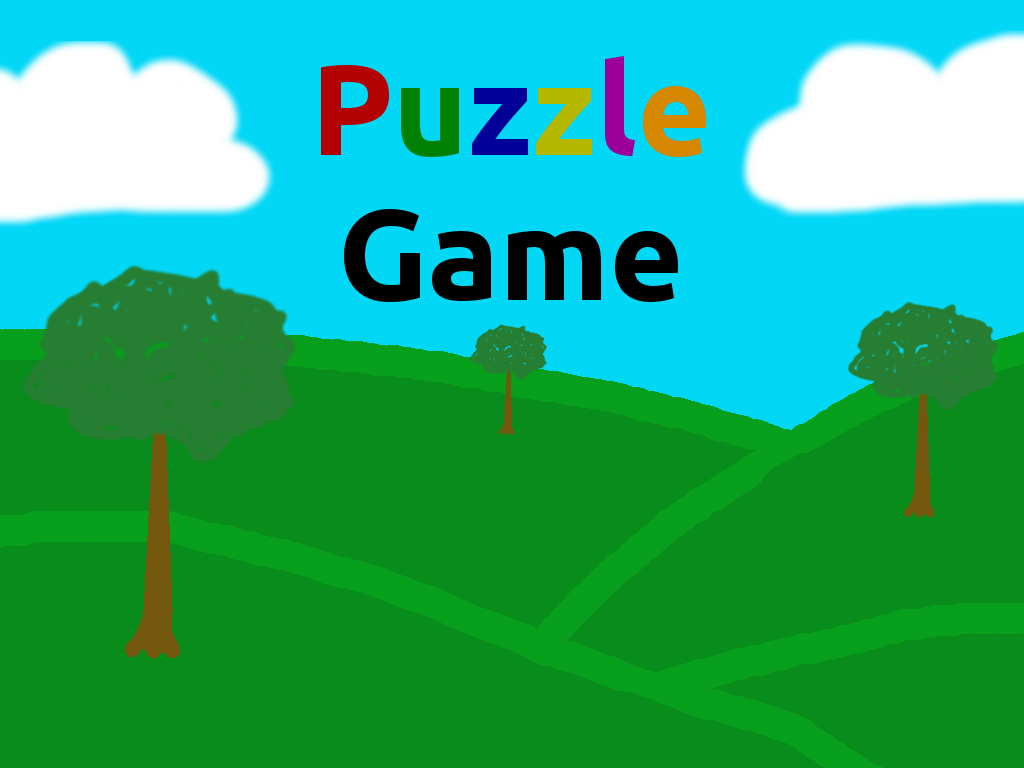
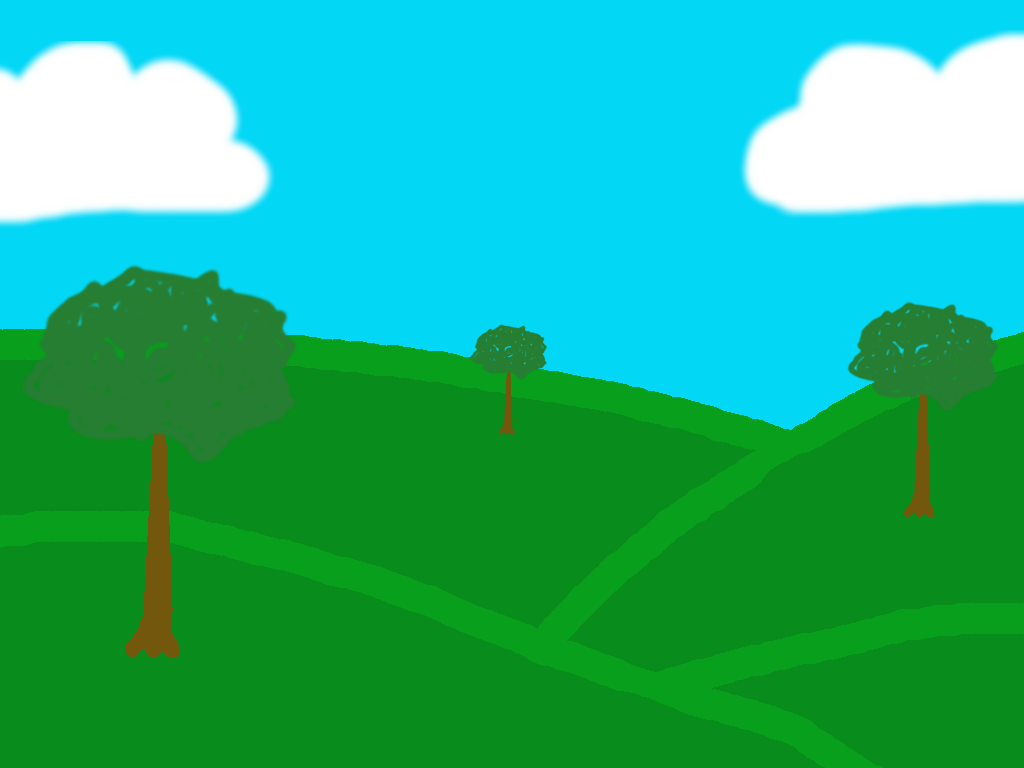
Added About screen Split foreground and background for the menu

Changed region(s): [[0.3125, 0.0625, 0.6875, 0.2188], [0.3125, 0.25, 0.6875, 0.4062]]

diff --git a/src/states/aboutstate.cpp b/src/states/aboutstate.cpp
@@ -1,0 +1,69 @@
+// Copyright (C) 2014-2015 Eric Hebert (ayebear)
+// This code is licensed under GPLv3, see LICENSE.txt for details.
+
+#include "aboutstate.h"
+#include "gameobjects.h"
+#include "spriteloader.h"
+#include "colorcode.h"
+
+AboutState::AboutState(GameObjects& objects):
+    objects(objects)
+{
+    setup();
+}
+
+void AboutState::handleEvents()
+{
+    sf::Event event;
+    while (objects.window.pollEvent(event))
+    {
+        if (event.type == sf::Event::Closed)
+            stateEvent.command = StateEvent::Exit;
+        else if (event.type == sf::Event::KeyPressed || event.type == sf::Event::MouseButtonReleased)
+            stateEvent.command = StateEvent::Pop;
+    }
+}
+
+void AboutState::update()
+{
+}
+
+void AboutState::draw()
+{
+    objects.window.clear();
+    objects.window.draw(bgSprite);
+    for (auto& text: textList)
+        objects.window.draw(text);
+    objects.window.display();
+}
+
+void AboutState::setup()
+{
+    // Load files and settings
+    SpriteLoader::load(bgSprite, "data/images/menu_bg.png", true);
+    cfg::File config("data/config/about.cfg");
+    font.loadFromFile(config("font"));
+    int fontSize = config("fontSize").toInt();
+    int padding = config("padding").toInt();
+    ColorCode fontColor(config("fontColor"));
+    auto viewSize = objects.window.getView().getSize();
+    auto& descriptionArray = config("description");
+    float totalHeight = (descriptionArray.size() * (fontSize + padding)) - padding;
+    float startTop = (viewSize.y - totalHeight) / 2.0f;
+
+    // Setup the sf::Text objects
+    int count = 0;
+    for (auto& text: descriptionArray)
+    {
+        textList.emplace_back(text.toString(), font, fontSize);
+        auto& line = textList.back();
+        line.setColor(fontColor.toColor());
+
+        // Calculate position
+        float left = (viewSize.x - line.getGlobalBounds().width) / 2.0f;
+        float top = startTop + (count * (fontSize + padding));
+        line.setPosition(left, top);
+
+        ++count;
+    }
+}

diff --git a/src/gui/gamemenu.cpp b/src/gui/gamemenu.cpp
@@ -103,6 +103,7 @@ void GameMenu::update(float dt)
 void GameMenu::draw(sf::RenderTarget& target, sf::RenderStates states) const
 {
     target.draw(backgroundSprite);
+    target.draw(foregroundSprite);
     for (auto& item: menuItems)
     {
         target.draw(item.shape);
@@ -141,6 +142,7 @@ void GameMenu::loadSettings()
 {
     // Load general settings
     SpriteLoader::load(backgroundSprite, config("backgroundImage"), true);
+    SpriteLoader::load(foregroundSprite, config("foregroundImage"), true);
     transitionTime = config("transitionTime").toFloat();
     textTransitionTime = config("textTransitionTime").toFloat();
     padding = config("padding").toInt();

diff --git a/src/states/aboutstate.h b/src/states/aboutstate.h
@@ -1,0 +1,30 @@
+// Copyright (C) 2014-2015 Eric Hebert (ayebear)
+// This code is licensed under GPLv3, see LICENSE.txt for details.
+
+#ifndef ABOUTSTATE_H
+#define ABOUTSTATE_H
+
+#include "basestate.h"
+#include <SFML/Graphics.hpp>
+
+class GameObjects;
+
+class AboutState: public BaseState
+{
+    public:
+        AboutState(GameObjects& objects);
+
+        void handleEvents();
+        void update();
+        void draw();
+
+    private:
+        void setup();
+
+        GameObjects& objects;
+        std::vector<sf::Text> textList;
+        sf::Sprite bgSprite;
+        sf::Font font;
+};
+
+#endif

diff --git a/src/game/main.cpp b/src/game/main.cpp
@@ -5,13 +5,15 @@
 #include "statestack.h"
 #include "gamestate.h"
 #include "menustate.h"
+#include "aboutstate.h"
 
 int main()
 {
-    GameObjects objects("Puzzle Game v0.1.3 Dev");
+    GameObjects objects("Puzzle Game v0.1.4 Dev");
     StateStack states;
     states.add<GameState>("Game", objects);
     states.add<MenuState>("Menu", objects);
+    states.add<AboutState>("About", objects);
     states.start("Menu");
     return 0;
 }

diff --git a/src/gui/gamemenu.h b/src/gui/gamemenu.h
@@ -100,6 +100,7 @@ class GameMenu: public sf::Drawable
         sf::View view;
         sf::Vector2f viewSize;
         sf::Sprite backgroundSprite;
+        sf::Sprite foregroundSprite;
 
         // Settings
         float transitionTime;
